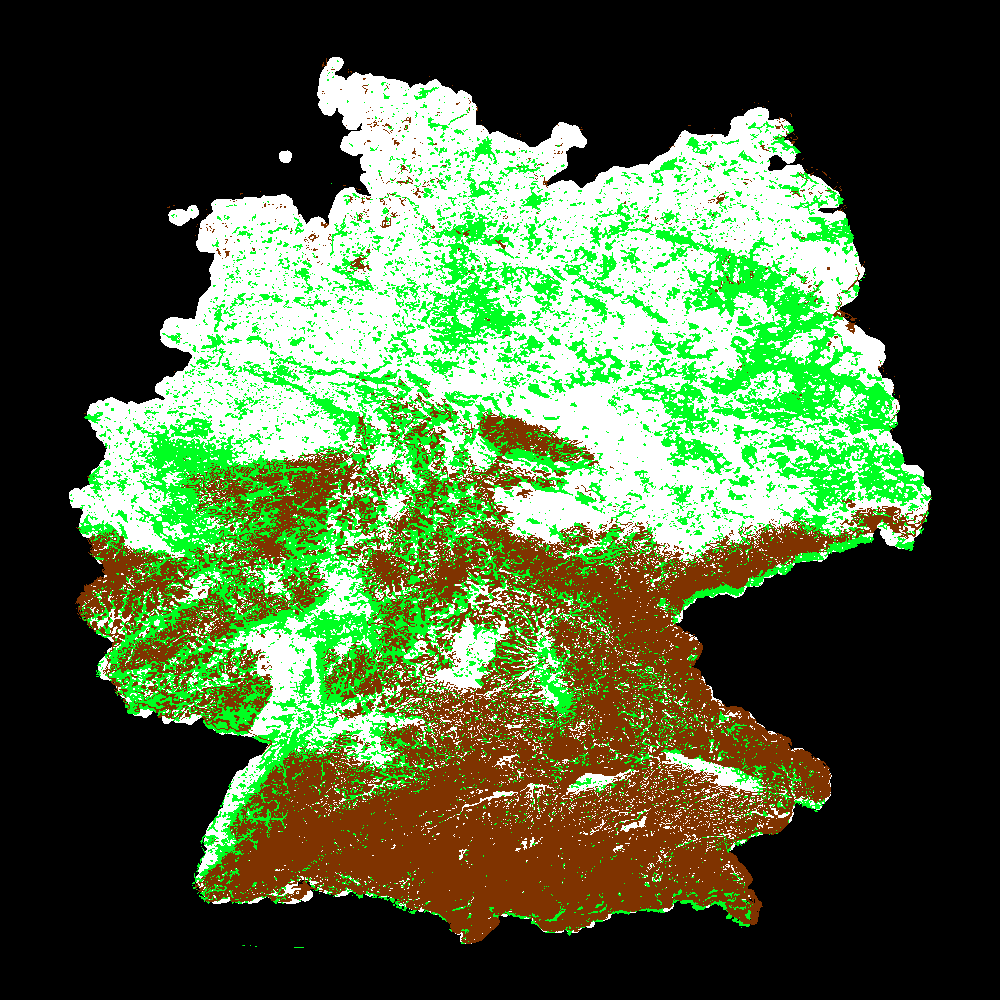
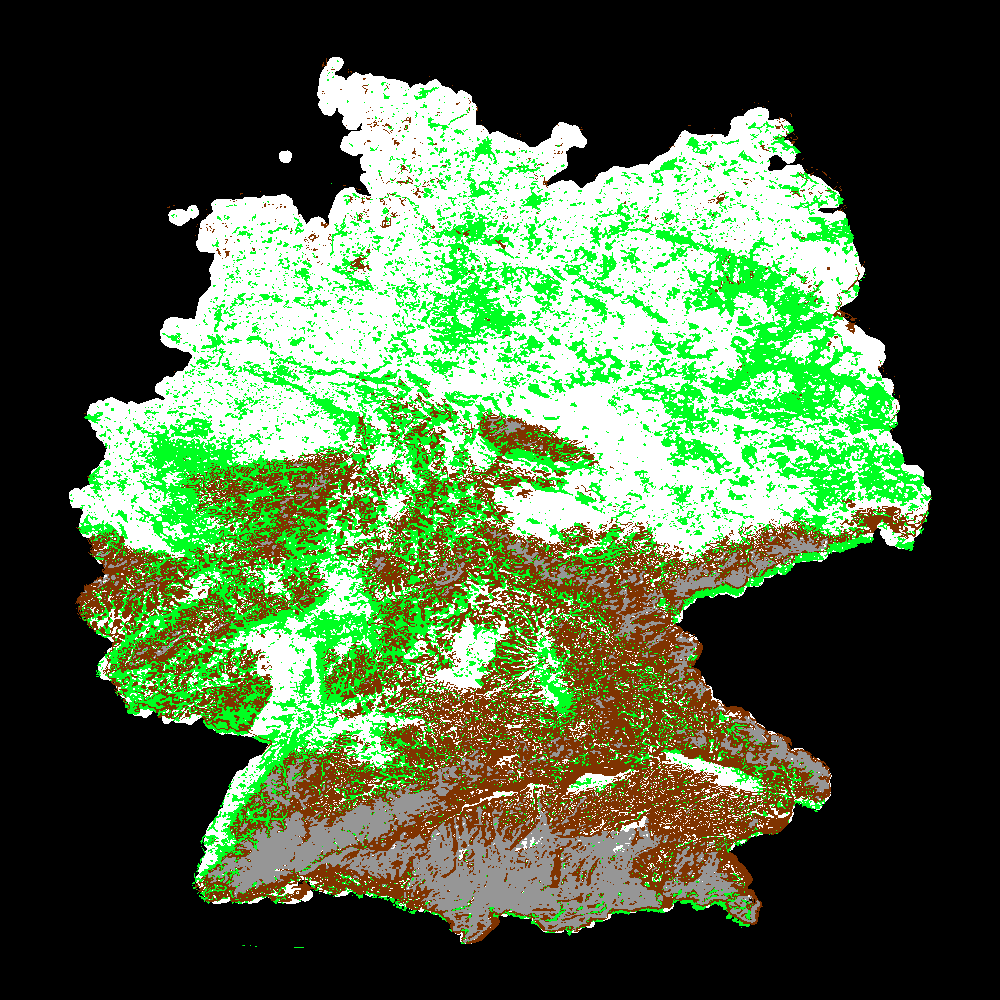
working on terrain config

diff --git a/ministrat/common/terrain/terrain.js b/ministrat/common/terrain/terrain.js
@@ -1,0 +1,77 @@
+ministrat.config.terrain = {
+  forest: {
+    name: "Forest",
+    colour: [0, 255, 33],
+
+    modifiers: {
+      armour: {
+        defence: -0.35
+      },
+      artillery: {
+        attack: -0.20,
+        defence: -0.50
+      },
+      infantry: {
+        attack: 0.15,
+        defence: 0.50
+      }
+    }
+  },
+  hills: {
+    name: "Hills",
+    colour: [127, 51, 0],
+
+    modifiers: {
+      armour: {
+        attack: -0.25,
+        defence: -0.50
+      },
+      artillery: {
+        attack: -0.25,
+        defence: 0.80
+      },
+      infantry: {
+        attack: 0.35,
+        defence: 0.75
+      }
+    }
+  },
+  mountains: {
+    name: "Mountains",
+    colour: [150, 150, 150],
+
+    modifiers: {
+      armour: {
+        attack: -0.50,
+        defence: -0.75
+      },
+      artillery: {
+        attack: -0.50,
+        defence: 0.75
+      },
+      infantry: {
+        attack: 0.50,
+        defence: 1.50
+      }
+    }
+  },
+  plains: {
+    name: "Plains",
+    colour: [255, 255, 255],
+
+    modifiers: {
+      armour: {
+        attack: -0.50,
+        defence: -0.75
+      },
+      artillery: {
+        attack: -0.50,
+        defence: 0.75
+      },
+      infantry: {
+        attack: 0.50,
+        defence: 1.50
+      }
+    }
+  }
+};

diff --git a/ministrat/core/framework/ministrat_raster_framework.js b/ministrat/core/framework/ministrat_raster_framework.js
@@ -4,9 +4,28 @@ class Ministrat_Heatmap {
     var tag = (arg0_tag) ? arg0_tag : "";
 
     //Declare local instance variables
+    var ministrat_canvas_overlay_el = document.querySelector(ministrat.config.map_elements.ministrat_canvas_selector);
+
+    this.id = `${tag}-flowfield-heatmap`;
+
+    //Create canvas element
+    this.canvas = document.createElement("canvas");
+    this.canvas.id = this.id;
+    this.canvas.width = 1000;
+    this.canvas.height = 1000;
+
+    //Create context
+    this.ctx = this.canvas.getContext("2d");
+    
+    ministrat_canvas_overlay_el.appendChild(this.canvas);
   }
 
   draw () {
-    
+    //Declare local instance variables
+    var terrain_canvas_el = document.querySelector(ministrat.config.map_elements.ministrat_terrain_canvas);
+
+    //Draw terrain cost first
+    if (terrain_canvas_el) {
+    }
   }
 }

diff --git a/pages/index.html b/pages/index.html
@@ -815,6 +815,8 @@
     <script type = "text/javascript" src = "ministrat/common/elements/map_elements.js"></script>
     <script type = "text/javascript" src = "ministrat/common/elements/topbar_elements.js"></script>
     <script type = "text/javascript" src = "ministrat/common/elements/ui_elements.js"></script>
+
+    <script type = "text/javascript" src = "ministrat/common/terrain/terrain.js"></script>
     
     <script type = "text/javascript" src = "ministrat/common/brd_army_orbat.js"></script>
     <script type = "text/javascript" src = "ministrat/common/nato_army_orbat.js"></script>

diff --git a/ministrat/common/elements/map_elements.js b/ministrat/common/elements/map_elements.js
@@ -13,5 +13,6 @@ ministrat.config.map_elements = {
   west_german_border_els: `.west-german-province`,
 
   //Canvases
+  ministrat_canvas_selector: `#ministrat-map-overlay-canvases`,
   ministrat_terrain_canvas: `#ministrat-terrain-canvas`
 };
